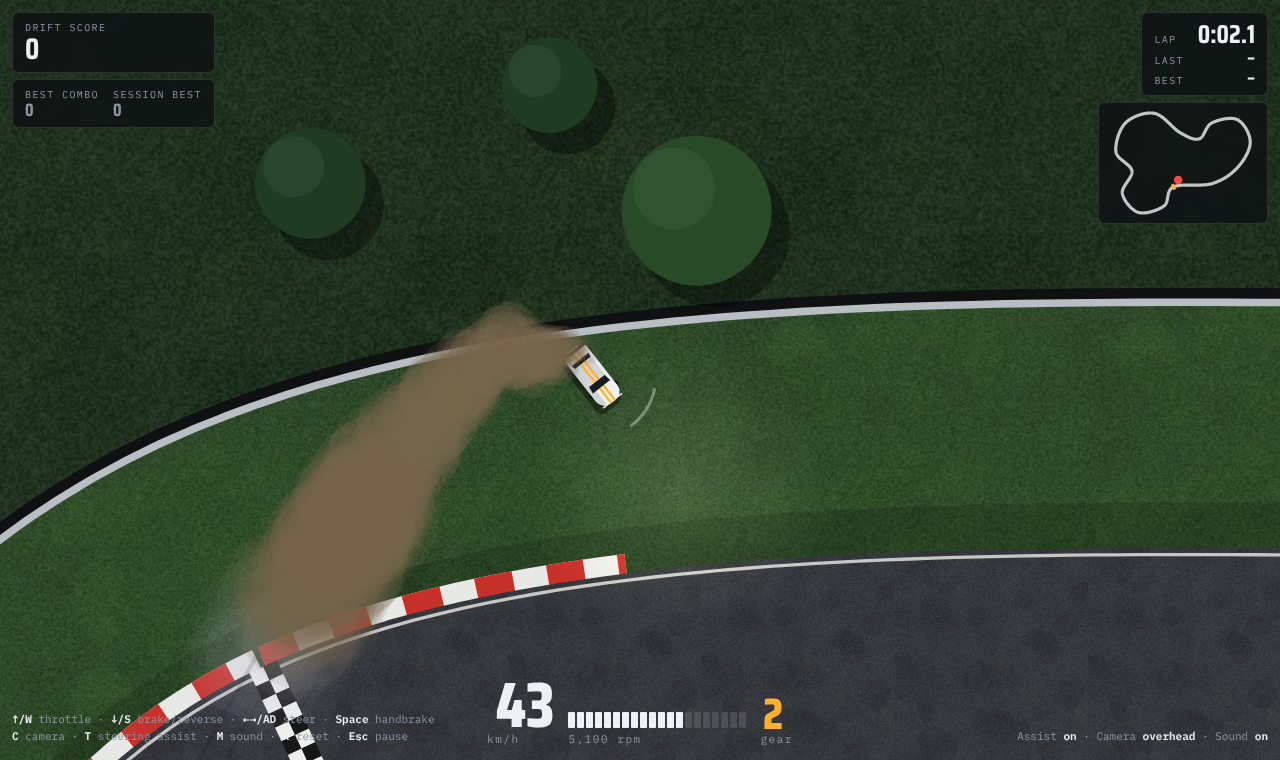
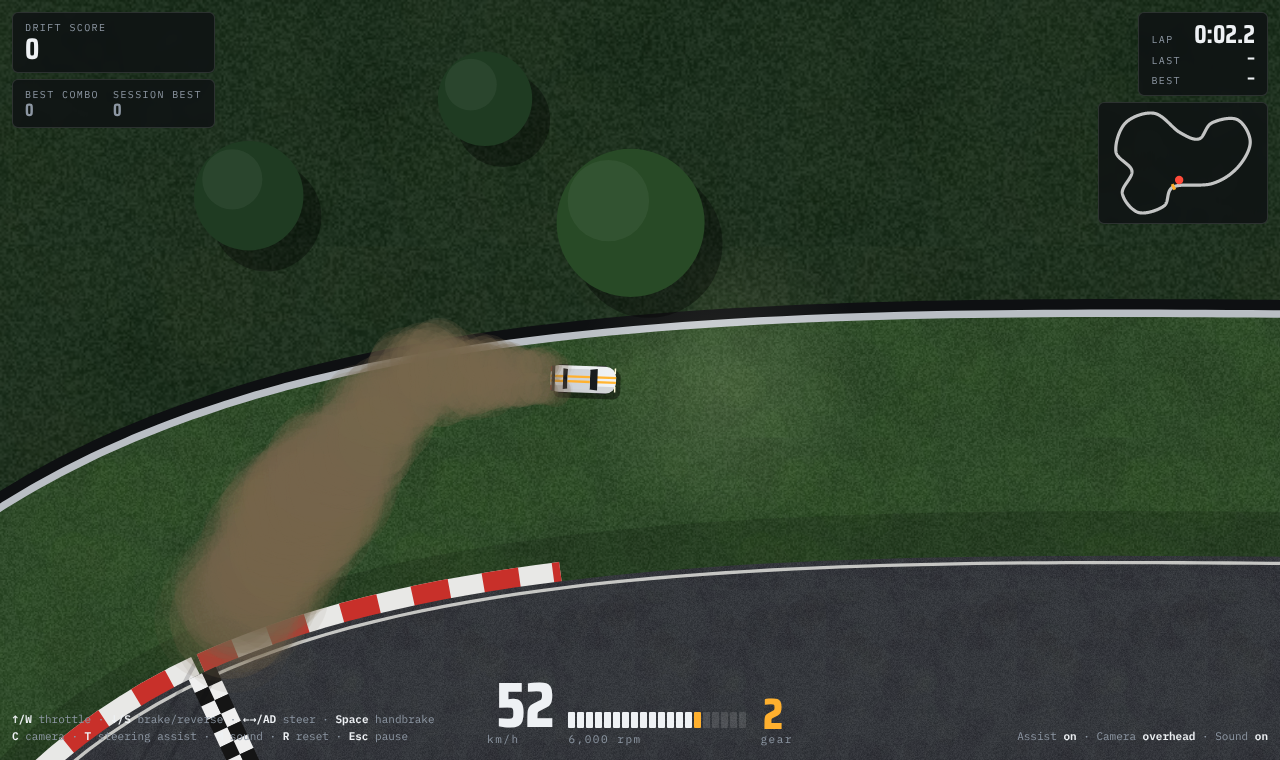
Drift game: more grip and a V8 engine sound
Raise tire friction and soften grip falloff and power oversteer so the
car only slides when provoked. Engine audio now models a cross-plane V8
(4 pulses per rev, half-order burble) with lift-off exhaust crackle.

Claude-Session: https://claude.ai/code/session_01UQRo3b8Nro7hxR5cupC8So

diff --git a/drift/index.html b/drift/index.html
@@ -172,7 +172,7 @@ kbd { font-family: var(--mono); font-size: 11px; border: 1px solid var(--line); 
 <div id="overlay">
   <div class="card">
     <h1>Sideways <span>Club</span></h1>
-    <p>A rear-drive coupe, 340&nbsp;hp, on a 1.6&nbsp;km night-practice circuit. Tires follow a slip-angle grip curve, weight shifts under braking and throttle, and the rear axle shares one friction budget between drive and cornering. Too much throttle and the rear lets go.</p>
+    <p>A rear-drive V8 coupe, 340&nbsp;hp, on a 1.6&nbsp;km night-practice circuit. Tires follow a slip-angle grip curve, weight shifts under braking and throttle, and the rear axle shares one friction budget between drive and cornering. Too much throttle and the rear lets go.</p>
     <table>
       <tr><td>Start a drift</td><td>Turn in, then stab throttle in 2nd. Or tap <kbd>Space</kbd> for a handbrake entry.</td></tr>
       <tr><td>Hold it</td><td>Countersteer and balance the angle with throttle. More gas, more angle.</td></tr>
@@ -395,8 +395,8 @@ function step(dt, inp) {
   // surface under the car
   nearest(c.x, c.y);
   const ad = Math.abs(nearD);
-  let mu = 1.05; c.surf = 0;
-  if (ad > HALF + CURB) { mu = 0.62; c.surf = 2; } else if (ad > HALF) { mu = 0.97; c.surf = 1; }
+  let mu = 1.12; c.surf = 0;
+  if (ad > HALF + CURB) { mu = 0.78; c.surf = 2; } else if (ad > HALF) { mu = 1.12; c.surf = 1; }
   if (DEV.mu) { mu = DEV.mu; c.surf = 0; }
 
   // gearbox + reverse logic
@@ -453,7 +453,7 @@ function step(dt, inp) {
   const cd = Math.cos(c.steer), sdl = Math.sin(c.steer);
   const wl = vlong * cd + vfLat * sdl, wt = -vlong * sdl + vfLat * cd;
   const alphaF = Math.atan2(wt, Math.abs(wl) + 0.5);
-  let FyF = -muF * pac(alphaF, 9, 1.4);
+  let FyF = -muF * pac(alphaF, 9.5, 1.35);
   let FxF = brk > 0 ? -Math.sign(wl) * Math.min(1, Math.abs(wl) / 0.3) * brk * P.brake * 0.64 : 0;
   let fm = Math.hypot(FxF, FyF); if (fm > muF) { FxF *= muF / fm; FyF *= muF / fm; }
 
@@ -465,14 +465,14 @@ function step(dt, inp) {
     const vm = Math.hypot(vlong, vr), k = Math.min(1, vm / 0.4) * muR * 0.8 / (vm + 1e-6);
     FxR = -vlong * k; FyR = -vr * k;
   } else {
-    FyR = -muR * pac(alphaR, 8.5, 1.45);
+    FyR = -muR * pac(alphaR, 8.8, 1.38);
     const brkR = brk > 0 ? -Math.sign(vlong) * Math.min(1, Math.abs(vlong) / 0.3) * brk * P.brake * 0.36 : 0;
     FxR = drive + brkR + engBrake;
     const fr = Math.hypot(FxR, FyR);
     if (fr > muR) {
       const s = muR / fr;
       if (Math.abs(drive) > muR * 0.55 && Math.abs(FxR) * s > muR * 0.45) spinning = true;
-      FxR *= s; FyR *= s * (spinning ? 0.9 : 1);
+      FxR *= s; FyR *= Math.min(1, s * 1.1);
     }
   }
   if (spinning) c.spin += (Math.max(0, Math.min(11, (Math.abs(drive) / muR - 0.6) * 6)) - c.spin) * Math.min(1, dt * 4);
@@ -489,7 +489,7 @@ function step(dt, inp) {
   c.vx += (Fx * cs - Fy * sn) / P.m * dt;
   c.vy += (Fx * sn + Fy * cs) / P.m * dt;
   c.r += Tq / P.I * dt;
-  c.r -= c.r * Math.min(1, dt * 0.3);
+  c.r -= c.r * Math.min(1, dt * 0.6);
   c.axs += (Fx / P.m - c.axs) * Math.min(1, dt * 7);
   if (speed < 0.25 && thr === 0) { c.vx *= 0.9; c.vy *= 0.9; c.r *= 0.9; }
 
@@ -624,13 +624,20 @@ const audio = {
       for (let i = 0; i < 512; i++) { const x = i / 256 - 1; curve[i] = Math.tanh(x * 2.4); } shaper.curve = curve;
       const lp = this.lp = ac.createBiquadFilter(); lp.type = "lowpass"; lp.frequency.value = 900; lp.Q.value = 3;
       const eg = this.eg = ac.createGain(); eg.gain.value = 0;
+      // cross-plane V8: 4 firing pulses per crank turn, plus the uneven half-order burble
       const o1 = this.o1 = ac.createOscillator(); o1.type = "sawtooth";
       const o2 = this.o2 = ac.createOscillator(); o2.type = "square";
       const o3 = this.o3 = ac.createOscillator(); o3.type = "sawtooth";
-      const g2 = ac.createGain(); g2.gain.value = 0.5; const g3 = ac.createGain(); g3.gain.value = 0.35;
-      o1.connect(shaper); o2.connect(g2).connect(shaper); o3.connect(g3).connect(shaper);
-      shaper.connect(lp).connect(eg).connect(master);
-      [o1, o2, o3].forEach((o) => o.start());
+      const g2 = ac.createGain(); g2.gain.value = 0.7; const g3 = ac.createGain(); g3.gain.value = 0.45;
+      const am = ac.createGain(); am.gain.value = 0.7;
+      const lfo = this.lfo = ac.createOscillator(); lfo.type = "triangle";
+      const lfoAmt = ac.createGain(); lfoAmt.gain.value = 0.3; lfo.connect(lfoAmt).connect(am.gain);
+      const pre = ac.createGain(); pre.gain.value = 1.6;
+      o1.connect(pre); o2.connect(g2).connect(pre); o3.connect(g3).connect(pre);
+      pre.connect(shaper); shaper.connect(am).connect(lp).connect(eg).connect(master);
+      const body = ac.createBiquadFilter(); body.type = "peaking"; body.frequency.value = 120; body.Q.value = 1; body.gain.value = 9;
+      lp.disconnect(); lp.connect(body).connect(eg);
+      [o1, o2, o3, lfo].forEach((o) => o.start());
       const nb = ac.createBuffer(1, ac.sampleRate * 2, ac.sampleRate), nd = nb.getChannelData(0);
       for (let i = 0; i < nd.length; i++) nd[i] = Math.random() * 2 - 1;
       this.noise = nb;
@@ -646,13 +653,17 @@ const audio = {
   },
   update() {
     if (!this.ac || paused) return;
-    const t = this.ac.currentTime, rpm = car.rpm, f = rpm / 60 * 3;
+    const t = this.ac.currentTime, rpm = car.rpm, f = rpm / 60 * 4;
     const lim = car.limiter ? (Math.sin(t * 90) > 0 ? 0.35 : 1) : 1;
     this.o1.frequency.setTargetAtTime(f, t, 0.015);
     this.o2.frequency.setTargetAtTime(f * 0.5, t, 0.015);
-    this.o3.frequency.setTargetAtTime(f * 1.503, t, 0.015);
-    this.lp.frequency.setTargetAtTime(380 + car.throttle * 1700 + rpm * 0.22, t, 0.03);
-    this.eg.gain.setTargetAtTime((0.11 + car.throttle * 0.17) * lim, t, 0.03);
+    this.o3.frequency.setTargetAtTime(f * 0.25, t, 0.015);
+    this.lfo.frequency.setTargetAtTime(rpm / 120, t, 0.02);
+    this.lp.frequency.setTargetAtTime(220 + car.throttle * 1300 + rpm * 0.14, t, 0.03);
+    this.eg.gain.setTargetAtTime((0.14 + car.throttle * 0.2) * lim, t, 0.03);
+    // exhaust crackle on lift-off
+    if (car.throttle < 0.1 && rpm > 3300 && Math.random() < 0.12) this.pop(0.25 + Math.random() * 0.35);
+    if (car.limiter && Math.random() < 0.2) this.pop(0.4);
     const sq = Math.max(car.skid, car.skidF * 0.8) * (car.surf === 2 ? 0.15 : 1);
     this.sg.gain.setTargetAtTime(sq * 0.32, t, 0.05);
     this.bp.frequency.setTargetAtTime(950 + sq * 350 + Math.sin(t * 13) * 40, t, 0.05);
@@ -660,6 +671,14 @@ const audio = {
     this.rg.gain.setTargetAtTime(Math.min(0.25, sp / 140) * (car.surf === 2 ? 2.2 : 1), t, 0.1);
   },
   silence() { if (this.ac) { const t = this.ac.currentTime; this.eg.gain.setTargetAtTime(0, t, 0.05); this.sg.gain.setTargetAtTime(0, t, 0.05); this.rg.gain.setTargetAtTime(0, t, 0.05); } },
+  pop(k) {
+    if (!this.ac || muted) return;
+    const ac = this.ac, src = ac.createBufferSource(); src.buffer = this.noise;
+    const bp = ac.createBiquadFilter(); bp.type = "bandpass"; bp.frequency.value = 500 + Math.random() * 900; bp.Q.value = 1.2;
+    const gn = ac.createGain(), t = ac.currentTime + Math.random() * 0.03;
+    gn.gain.setValueAtTime(0.0001, t); gn.gain.exponentialRampToValueAtTime(0.6 * k, t + 0.004); gn.gain.exponentialRampToValueAtTime(0.0001, t + 0.07);
+    src.connect(bp).connect(gn).connect(this.master); src.start(t, Math.random()); src.stop(t + 0.09);
+  },
   thud(k) {
     if (!this.ac) return;
     const ac = this.ac, src = ac.createBufferSource(); src.buffer = this.noise;
